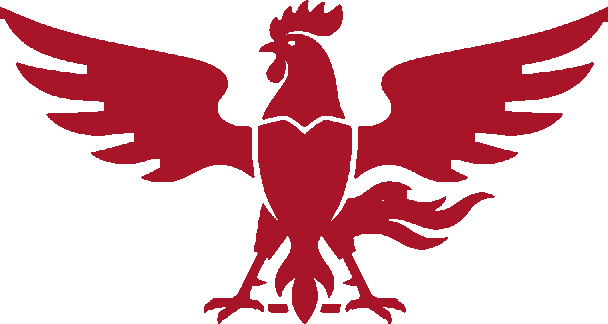
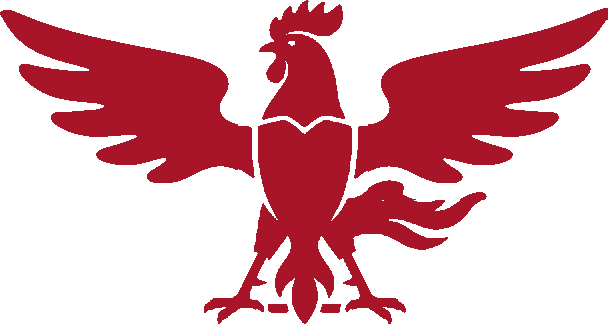
Coq : ailes re-simplifiées (environ 3 plumes), outil simplifier_coq.py
Claude-Session: https://claude.ai/code/session_01R6DULziKfSGZcEEcyC3Cch

diff --git a/Outils/simplifier_coq.py b/Outils/simplifier_coq.py
@@ -1,0 +1,20 @@
+"""Outil de développement : extrait le coq choisi (variante en bas à gauche de embleme_coq_4variantes.jpg)
+et simplifie les AILES (moins de plumes) par flou + seuil. Usage : python3 Outils/simplifier_coq.py [sigma] [seuil]
+Plus sigma est grand, moins il y a de plumes (5 = environ 3 plumes par aile, 7 = 2 gros lobes)."""
+import os, sys
+import numpy as np
+from PIL import Image, ImageFilter
+RACINE = os.path.join(os.path.dirname(__file__), "..", "Assets", "Gemini")
+sigma = float(sys.argv[1]) if len(sys.argv) > 1 else 5
+seuil = float(sys.argv[2]) if len(sys.argv) > 2 else 0.40
+im = Image.open(os.path.join(RACINE, "originaux", "embleme_coq_4variantes.jpg")).convert("RGB")
+a = np.array(im.crop((4, 390, 700, 764))).astype(int)
+m = Image.fromarray((((a[..., 0] - a[..., 1]) > 60) * 255).astype(np.uint8)).crop((44, 24, 652, 348))
+M = np.array(m) > 0
+c = np.array(m.filter(ImageFilter.GaussianBlur(sigma))).astype(float) / 255 > seuil
+out = M.copy()
+zone = np.zeros_like(M); zone[:200, :238] = True; zone[:200, 368:] = True   # ailes seulement
+out[zone] = c[zone]
+rgba = np.zeros(M.shape + (4,), np.uint8); rgba[out] = (168, 20, 40, 255)
+Image.fromarray(rgba, "RGBA").save(os.path.join(RACINE, "embleme", "coq_rouge.png"))
+print("OK coq_rouge.png (sigma", sigma, "seuil", seuil, ")")

diff --git a/CLAUDE.md b/CLAUDE.md
@@ -183,6 +183,9 @@
 
 - 2026-11-12 : **LANCE + POTS TERMINÉS** (testés par l'utilisateur : "c'est bon pour moi", y compris la vue de dos).
 
+- 2026-11-12 : coq : l'utilisateur compte encore 5 plumes par aile -> re-simplifié (flou gaussien sigma 5 + seuil .40 sur les ailes, ~3 lobes/plumes par aile, bords lisses) via `Outils/simplifier_coq.py [sigma] [seuil]`
+  (sigma 7 = 2 gros lobes, trop mou). `Assets/Gemini/embleme/coq_rouge.png` régénéré. Validation de l'utilisateur en attente.
+
 ## PROCHAINE ÉTAPE : Étape 6 = les énigmes (conception = Opus)
 - Concevoir les 3 énigmes de l'aile gauche (1 par salle) + le fragment de la salle 3, en s'appuyant sur : plaques `P`, dalles à flèches `F`, braseros `B`, pots cassables `V` (cachent des objets), lance.
 - Questions à poser à l'utilisateur AVANT de concevoir : style d'énigme préféré (observation / blocs à pousser / ordre à respecter) ; validation du coq (`Assets/Gemini/embleme/coq_rouge.png`).
